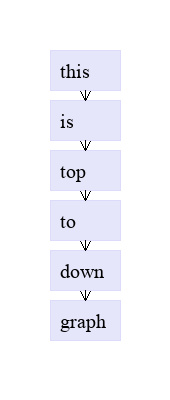
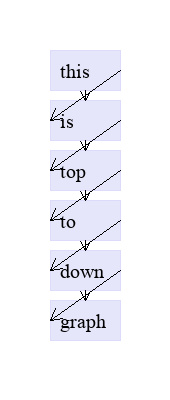
support function of drawing transition

diff --git a/layout.py b/layout.py
@@ -36,7 +36,8 @@ class Circle():
         self.ID = ID
         self.box = box
     def getTransition(self, pre, cur, transNode):
-        return Transition(pre.x1 + pre.r, pre.y1, cur.x1 - cur.r, cur.y1, transNode.text)
+        text = "" if transNode == None else transNode.getText()
+        return Transition(pre.x1 + pre.r, pre.y1, cur.x1 - cur.r, cur.y1, text)
     def getID(self):
         return self.box.ID
 
@@ -62,11 +63,6 @@ def getLayout(graphType, pos, tran):
     return None
 
 
-class TopdownLayout():
-    def __init__(self, graph):
-        self.type = graph.get_type()
-        self.graph = graph
-        self.lrLayout = LRLayout(graph)
 
 
 
@@ -197,6 +193,9 @@ class LRLayout():
 """
 Top to down linear layout 
 """
+
+
+
 class TopdownLayout():
     def __init__(self, boxList, transitionList):
         self.transitionList = transitionList
@@ -215,7 +214,7 @@ class TopdownLayout():
         self.char_place = 10
         self.max_len = self.getMaxTextLen()
 
-        self.rectangles = self.calPosition()
+        self.pos = self.calPosition()
         self.transitions = self.calTransitionPos()
 
 
@@ -257,14 +256,14 @@ class TopdownLayout():
 
 
     def calTransitionPos(self):
-        if len(self.rectangles) == 0:
+        if len(self.pos ) == 0:
             return None
 
-        previsouRec = self.rectangles[0]
+        previsouRec = self.pos[0]
 
         ans = []
-        for i in range(1, len(self.rectangles)):
-            curRec = self.rectangles[i]
+        for i in range(1, len(self.pos)):
+            curRec = self.pos[i]
 
             x1 = previsouRec.left_up_x + (previsouRec.bottom_right_x - previsouRec.left_up_x) /2
             y1 = previsouRec.bottom_right_y

diff --git a/transition.py b/transition.py
@@ -1,0 +1,42 @@
+
+
+from  drawer import  drawTransitions
+## manage transition
+from layout import  Transition
+
+class TransitionManager():
+    def __init__(self, transitionList):
+        ## rectangles, circles
+        self.shapes = []
+        ## what does this mean
+        self.transitionList = transitionList
+        self.transitionMap =   { (trans.sourceID, trans.targetID):trans for trans in self.transitionList}
+        self.shapesMap = None
+    def layoutList(self, layouts):
+        for laylou in layouts:
+            self.shapes.extend(laylou.pos)
+
+
+        self.shapesMap = {shape.getID():shape for shape in self.shapes}
+        return self
+
+
+    def parseTransitionLayout(self):
+
+        ans = []
+        for transNode in self.transitionList:
+            preShape = self.shapesMap[transNode.sourceID]
+            targetShape = self.shapesMap[transNode.targetID]
+
+            trans = preShape.getTransition(preShape, targetShape, transNode)
+            ans.append(trans)
+
+        return ans
+
+
+    def drawTrans(self, draw):
+        transitionList = self.parseTransitionLayout()
+
+        drawTransitions(draw, transitionList)
+
+

diff --git a/engine.py b/engine.py
@@ -1,11 +1,10 @@
-
-from layout import   getLayout
+from layout import  getLayout
 from drawer import  startDraw, createImage, save
 from parser import parse
+from transition import TransitionManager
 
-
+## todo I have benn confused by transition  and transNode, refactor right now
 def interpret(input, file = None):
-
     tree = parse(input)
 
     positionList , transitionList= tree.postionAndTranstion()
@@ -17,6 +16,8 @@ def interpret(input, file = None):
         layout = getLayout(graphType, pos, transitionList)
         layoutList.append(layout)
 
+    transitionMangeer =  TransitionManager(transitionList).layoutList(layoutList)
+
     ## here has a porblem, todo  how to calculate the whole frame work width and height beautifully
     maxwidth =  max([ layout.width for layout in layoutList])
     maxheight = max([ layout.height for layout in layoutList])
@@ -27,6 +28,8 @@ def interpret(input, file = None):
 
     for layout in layoutList:
         startDraw(layout, draw)
+
+    transitionMangeer.drawTrans(draw)
 
     save(im, file)
 if __name__ == "__main__":

diff --git a/engine_test.py b/engine_test.py
@@ -23,12 +23,13 @@ class MyTestCase(unittest.TestCase):
         correct_file = "lr_correct.jpg"
         self.assertEqual(filecmp.cmp(file, correct_file), True)
 
+    ## todo bug here
     def test_newTD(self):
         file = "td.jpg"
         correct_file = "td_correct.jpg"
         interpret("type TD this -- is -- top -- to -- down -- graph", file)
 
-        self.assertEqual(filecmp.cmp(file, correct_file), True)
+        ##self.assertEqual(filecmp.cmp(file, correct_file), True)
 
     def DefineTransition(self):
         input = "type LR  1'ancestor1 male'" \
@@ -59,7 +60,7 @@ class MyTestCase(unittest.TestCase):
 
     def test_syntax_with_transition(self):
         input = "type LR 1|.1 -10- 2|.2 \n 3|.3 -20- 4|.4 " \
-                "\n type transition 1--3 2--4"
+                "\n type transition 1-hh-3"
 
         file = "test_syntax_with_transition.jpg"
         correct_file ="test_syntax_with_transition_correct.jpg"

diff --git a/drawer.py b/drawer.py
@@ -70,7 +70,7 @@ def drawTransitions(draw, transitionList):
         __draw_new_right_arrow(draw, x1, y1, x2, y2, text)
 
 def drawTdLayout(topdownLayout, draw):
-    for rec in topdownLayout.rectangles:
+    for rec in topdownLayout.pos:
         drawRectangle(draw, rec)
 
     drawTransitions(draw,topdownLayout.transitions )

diff --git a/parser.py b/parser.py
@@ -62,6 +62,11 @@ class TransitionNode():
 
         return self
 
+    def getText(self):
+        if isinstance( self.text, str):
+            return self.text
+        return self.text.getText()
+
 
 INTERVAL_LEN = 5
 RECTANGLE = "#"
